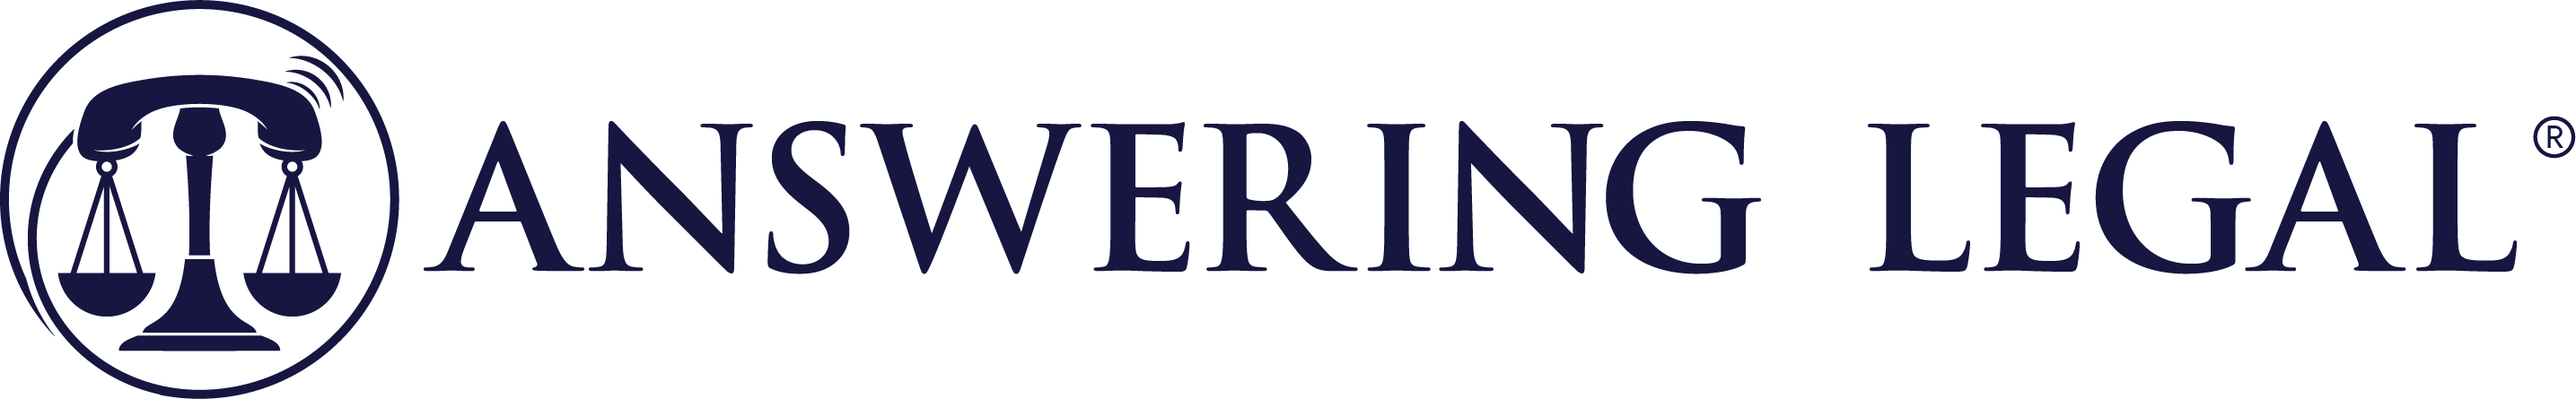
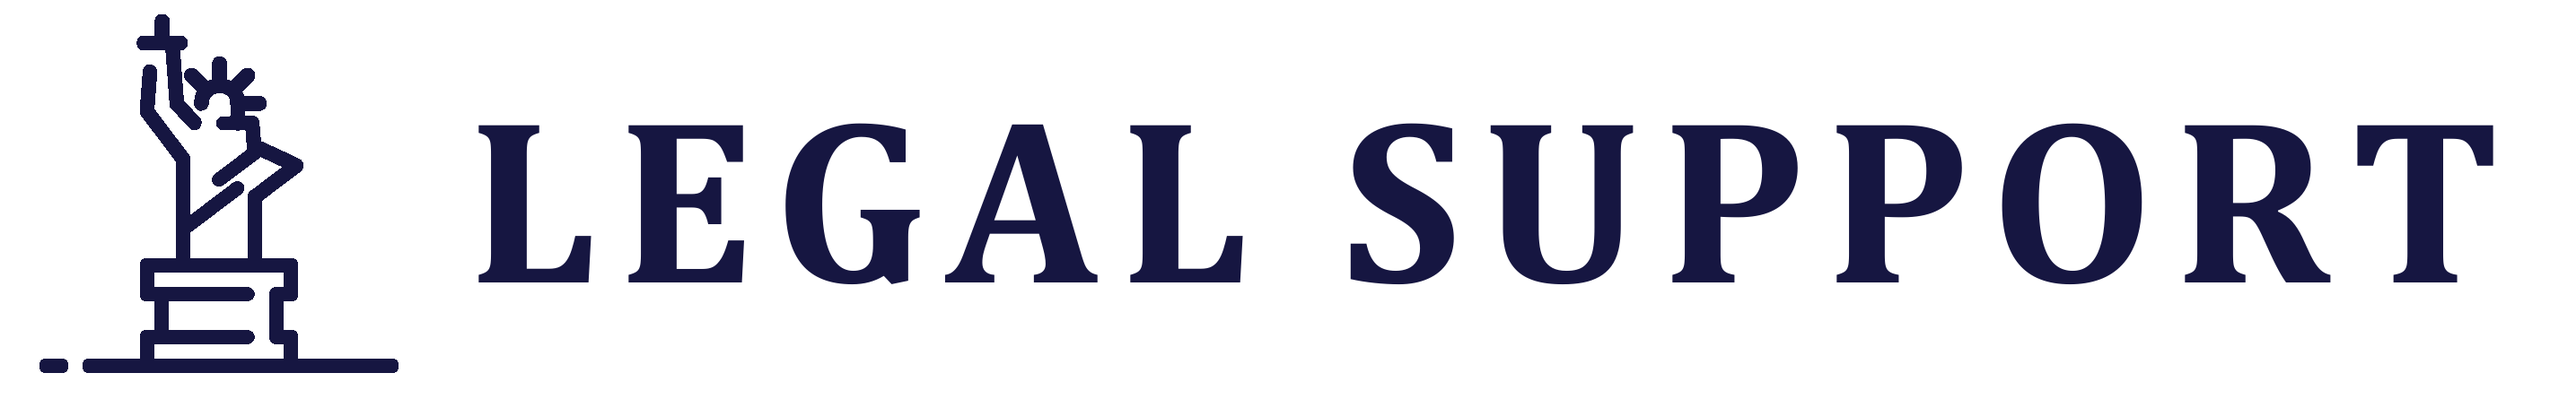
genericized branding

Changed region(s): [[0.0, 0.0, 1.0, 1.0]]

diff --git a/client-support/src/app/ui/landing-page/footer.tsx b/client-support/src/app/ui/landing-page/footer.tsx
@@ -6,7 +6,7 @@ export default function Footer() {
     return (
         <footer className="flex flex-col gap-[32px] lg:gap-[45px] px-[16px] py-[72px] lg:px-[106px] py-[100px] items-center">
             <div className="flex flex-col gap-[13px]">
-                <h3 className="text-h3 font-bold text-center">Have questions? Our team is here to help. Call 631-400-8888</h3>
+                <h3 className="text-h3 font-bold text-center">Have questions? Our team is here to help. Call 888-888-8888</h3>
                 <p className="text-sm1 text-center text-blue-400 font-extrabold">Monday to Friday from 9 am to 7 pm EST.</p>
             </div>
             <div className="bg-blue-800 h-[2px] w-full"></div>
@@ -45,7 +45,7 @@ export default function Footer() {
                 }
             </div>
             <div className="bg-blue-800 h-[2px] w-full"></div>
-            <p>© 2024 Answering Legal · All Rights Reserved</p>
+            
         </footer>
     )
 }

diff --git a/client-support/src/app/ui/landing-page/landing-hero.tsx b/client-support/src/app/ui/landing-page/landing-hero.tsx
@@ -35,7 +35,7 @@ export default function LandingHero() {
                     </div>
 
                     <h1 className="lg:order-1 text-h2 text-center lg:text-start font-bold lg:text-h1">We&apos;re more than an answering service</h1>
-                    <p className="lg:order-2 text-sub2 text-center lg:text-start font-semibold">Answering Legal has everything you need to make sure your firm never misses another opportunity.</p>
+                    <p className="lg:order-2 text-sub2 text-center lg:text-start font-semibold">Legal Support has everything you need to make sure your firm never misses another opportunity.</p>
 
                     <button className="lg:order-4 btn text-sub1 flex justify-center lg:self-start rounded-[12px] gap-[32px] py-[16px] px-[24px]">See our pricing</button>
                 </div>

diff --git a/client-support/src/app/util/blog.ts b/client-support/src/app/util/blog.ts
@@ -5,7 +5,7 @@ export const blogFetch = Array(3).fill({
   title: "How Viable Is Remote Work For Lawyers?",
   img: "/images/Article_img_placeholder.jpg",
   content:
-    "This month on the Answering Legal blog, we’ll be covering remote work in the legal world. Since the rapid adaptations required by quarantine during the COVID-19 pandemic, remote work has steadily been on the rise across all sectors of the economy, both private and public.",
+    "This month on the Legal Support's blog, we’ll be covering remote work in the legal world. Since the rapid adaptations required by quarantine during the COVID-19 pandemic, remote work has steadily been on the rise across all sectors of the economy, both private and public.",
   link: "https://localhost:3000/blog",
 });
 

diff --git a/client-support/src/app/ui/landing-page/topnav.tsx b/client-support/src/app/ui/landing-page/topnav.tsx
@@ -20,7 +20,7 @@ export default function TopNav() {
             <nav className="flex flex-col justify-between bg-white gap-[16px] px-[20px] py-[10px]">            
             <div className="hidden flex lg:inline-flex justify-end gap-[32px]">
                 <Link href={''} className="gray-text underline">Support</Link>
-                <Link href={''}>(631) 686-9700</Link>
+                <Link href={''}>(888) 888-8888</Link>
             </div>
             <div className="flex justify-between ">
                 <Image

diff --git a/client-support/src/app/util/footer.ts b/client-support/src/app/util/footer.ts
@@ -38,7 +38,7 @@ export const footer = [
                 { name: 'Videos', link: 'videos' },
                 { name: "Let's Talk Legal", link: 'lets-talk-legal' },
                 { name: 'Marketing', link: 'marketing' },
-                { name: 'The Answering Legal', link: 'the-answering-legal' },
+                { name: 'The Legal Support', link: 'the-legal-support' },
                 { name: 'Book Club', link: 'book-club' },
                 { name: 'Top Legal Softwares', link: 'top-legal-softwares' }
             ],

diff --git a/client-support/src/app/ui/landing-page/crm.tsx b/client-support/src/app/ui/landing-page/crm.tsx
@@ -2,7 +2,7 @@ import Image from "next/image"
 
 export default function CRM() {
     const crmList = [
-        'Answering Legal’s receptionists take down exactly the information you need.',
+        'Legal Support’s receptionists take down exactly the information you need.',
         'Through native API integrations with our proprietary software, we make sure it’s immediately where you need it to be.',
         'All you’ll have to do is open your CRM and follow up to secure your new client’s business.',
     ]
